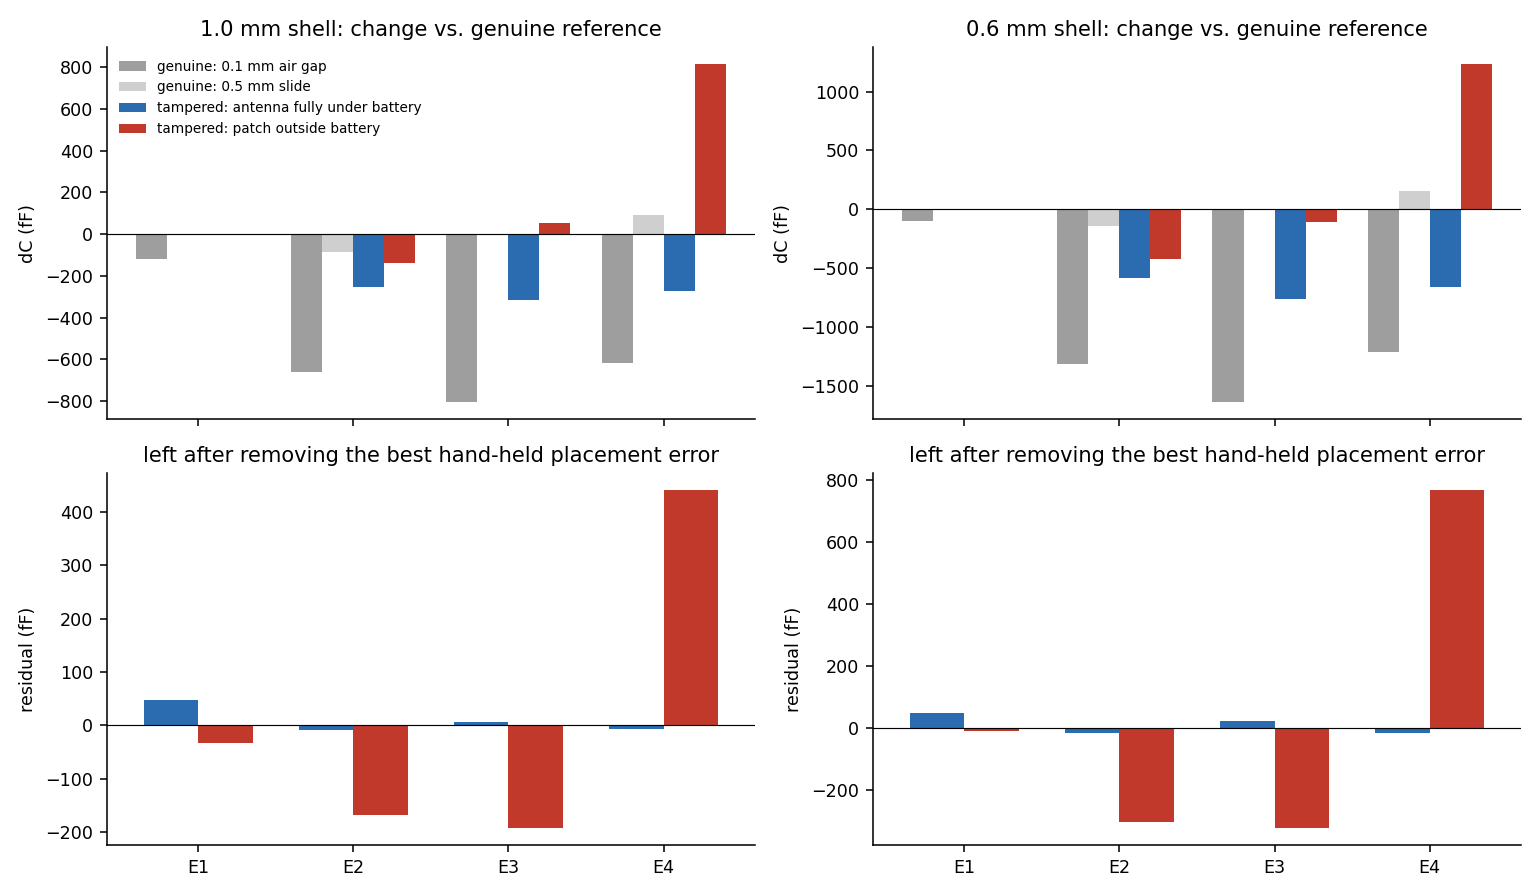
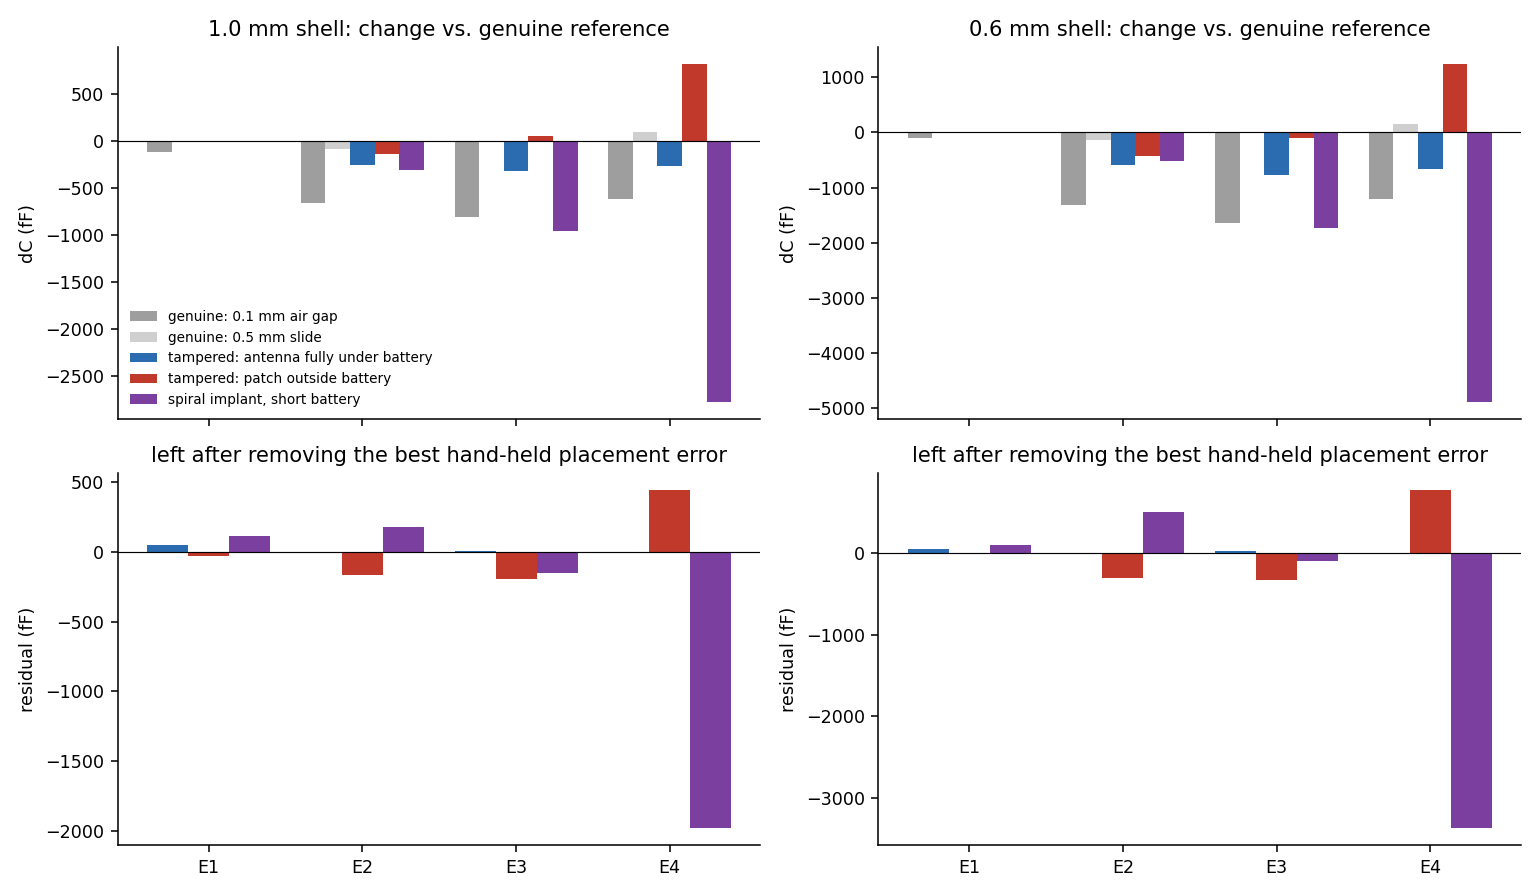
Capacitive array sees the spiral implant's shortened battery: 1.3-3.4 pF above placement error

diff --git a/sim/report.py b/sim/report.py
@@ -35,23 +35,30 @@ def placement_residual(v, B, ga, sb):
 
 def geometry_figure():
     import electrostatic as es
-    fig, axs = plt.subplots(1, 2, figsize=(11, 3.4))
-    for ax, batt in zip(axs, es.BATTERIES):
+    fig, axs = plt.subplots(1, 3, figsize=(15, 3.4))
+    for ax, batt in zip(axs, list(es.BATTERIES) + ['grand']):
         for e, (x, y) in es.ELECTRODES.items():
             ax.add_patch(Rectangle((x, y), es.EL_SIZE, es.EL_SIZE, fc='#d9a441', ec='#8a6418', alpha=0.35))
             ax.text(x + 7, y + 7, 'E%d' % e, ha='center', va='center', color='#6b4c10')
         d = es.DEV
         ax.add_patch(Rectangle((d[0], d[2]), d[1] - d[0], d[3] - d[2], fc='none', ec='0.3', lw=1.2, ls='--'))
-        b = es.BATTERIES[batt]
+        b = es.G_BATTERY if batt == 'grand' else es.BATTERIES[batt]
         ax.add_patch(Rectangle((b[0], b[2]), b[1] - b[0], b[3] - b[2], fc='#9aa7b8', ec='#4a5a70', alpha=0.55))
-        for p in (es.ANT_PATCH, es.ANT_ARM):
-            ax.add_patch(Rectangle((p[0], p[2]), p[1] - p[0], p[3] - p[2], fc='none', ec='#c0392b', lw=1.6))
+        if batt == 'grand':
+            g = es.G_BOARD
+            ax.add_patch(Rectangle((g[0], g[2]), g[1] - g[0], g[3] - g[2], fc='#7fb77e', ec='#3d7a3c', alpha=0.6))
+            g = es.G_SPIRAL
+            ax.add_patch(Rectangle((g[0], g[2]), g[1] - g[0], g[3] - g[2], fc='none', ec='#c0392b', lw=1.6))
+        else:
+            for p in (es.ANT_PATCH, es.ANT_ARM):
+                ax.add_patch(Rectangle((p[0], p[2]), p[1] - p[0], p[3] - p[2], fc='none', ec='#c0392b', lw=1.6))
         ax.set_xlim(8, 92)
         ax.set_ylim(-2, 42)
         ax.set_aspect('equal')
         ax.invert_yaxis()
         ax.set_title({'batt_covers_all': 'battery covers the whole antenna',
-                      'batt_35x15': '35 x 15 battery, feed patch sticks out'}[batt])
+                      'batt_35x15': '35 x 15 battery, feed patch sticks out',
+                      'grand': 'spiral implant: 26 mm battery, board (green), coil'}[batt])
         ax.set_xlabel('mm (detector board coordinates)')
     axs[0].plot([], [], color='#c0392b', label='antenna (est. from photos)')
     axs[0].add_patch(Rectangle((0, 0), 0, 0, fc='#9aa7b8', label='battery pouch'))
@@ -87,6 +94,17 @@ def electrostatic():
                     res = placement_residual(vv, B, ga, sb)
                     row['residual_' + name] = float(np.abs(res).max())
                 rows.append(row)
+        r = R.get('t%s_grand' % t)
+        if r:
+            G = np.array([r['genuine'][e] for e in ELS])
+            series.append(('spiral implant, short battery', np.array([r['grand'][e] for e in ELS]) - G, '#7b3fa0'))
+            for k in ('grand', 'grand_tied'):
+                vv = np.array([r[k][e] for e in ELS]) - G
+                row = {'shell': t, 'battery': '26 mm (spiral)', 'antenna': 'floating' if k == 'grand' else
+                       'board tied to wallet', 'dC': vv[:4].round(0).tolist()}
+                for name, (ga, sb) in TOL.items():
+                    row['residual_' + name] = float(np.abs(placement_residual(vv, B, ga, sb)).max())
+                rows.append(row)
         ax = axs[0, col]
         w = 0.8 / len(series)
         for i, (lab, v, c) in enumerate(series):
@@ -95,9 +113,11 @@ def electrostatic():
         ax.set_title('%s mm shell: change vs. genuine reference' % t)
         ax.set_ylabel('dC (fF)')
         ax = axs[1, col]
-        for i, (lab, v, c) in enumerate(series[2:]):
+        tam = series[2:]
+        w = 0.8 / len(tam)
+        for i, (lab, v, c) in enumerate(tam):
             res = placement_residual(v, B, *TOL['hand-held'])
-            ax.bar(np.arange(4) + (i - 0.5) * 0.35, res[:4], 0.35, label=lab, color=c)
+            ax.bar(np.arange(4) + (i - (len(tam) - 1) / 2) * w, res[:4], w, label=lab, color=c)
         ax.axhline(0, color='k', lw=0.6)
         ax.set_title('left after removing the best hand-held placement error')
         ax.set_ylabel('residual (fF)')

diff --git a/docs/simulation.md b/docs/simulation.md
@@ -21,7 +21,9 @@ metal here" would flag every genuine unit. The simulations compare
 ![modelled geometry](img/sim_geometry.png)
 
 Antenna and battery outlines are estimates (red / grey). Their relative
-position is the most important unknown; see the end of this document.
+position is the most important unknown; see the end of this document. The
+third panel is a second, different implant (a wire spiral and a shortened
+battery, see point 6 below).
 
 ## 1. Capacitive array (`sim/electrostatic.py`)
 
@@ -58,6 +60,10 @@ remainder is the part a placement error cannot explain.
 | 1.0 mm | feed patch outside the battery | tied to a large ground (upper bound) | 2108 fF | 1709 fF |
 | 0.6 mm | battery covers the whole antenna | floating | 47 fF | 47 fF |
 | 0.6 mm | feed patch outside the battery | floating | 921 fF | 767 fF |
+| 1.0 mm | spiral implant, 26 mm battery (see below) | floating | **2382 fF** | **1982 fF** |
+| 1.0 mm | spiral implant, 26 mm battery | board tied to the wallet's board | 1685 fF | 1285 fF |
+| 0.6 mm | spiral implant, 26 mm battery | floating | 4130 fF | 3370 fF |
+| 0.6 mm | spiral implant, 26 mm battery | board tied to the wallet's board | 3253 fF | 2493 fF |
 
 (Electrode capacitance is ~10 pF. The FDC2214 noise floor is 0.3 fF at
 100 S/s, so the instrument is never the limit: placement and unit-to-unit
@@ -91,6 +97,20 @@ variation are.)
    ground is ideal.
 5. A thinner back (Flex / Stax, 0.6 mm) roughly doubles every effect, both
    signal and placement sensitivity.
+
+6. **A second, quite different implant is caught by its shortened battery.**
+   Joe Grand's tampered Nano X ([slides](https://grandideastudio.com/media/ledger_hardware_implant_slides.pdf),
+   pp. 33-38) replaces the 44 mm battery with a 26 mm one and puts the implant
+   board and a hand-wound ~6 mm wire spiral antenna in the freed space. The
+   electrode over that space (E4) loses 2-5 pF, because the foil it saw in a
+   genuine unit is gone. No air gap or slide gives one electrode a drop that
+   large while its neighbours barely move. After the worst hand-held placement
+   error, 1.3-3.4 pF is left, far above anything else in the table. Whether
+   the implant's ground is tied to the wallet's board hardly matters. The
+   model's layout (third panel of the geometry figure) is estimated from the
+   photos, and at ~6 MHz the touching turns of the spiral act as one small
+   plate. The RF side of this variant is simulated in
+   [fixtures.md](fixtures.md#second-implant-variant-a-hand-wound-spiral).
 
 A working LTE antenna lying flat on a battery foil 0.15 mm away would barely
 radiate. So a real implant probably *needs* part of its antenna beyond the

diff --git a/docs/fixtures.md b/docs/fixtures.md
@@ -239,3 +239,17 @@ The modem is a 50 ohm resistor behind a 100 nH coil. The battery and board are
 perfect conductors. The real implant's ground connection is still unknown, and
 without the ground tie the 1.2 GHz notch would likely change or disappear.
 Treat the depths as an order of magnitude.
+
+## Second implant variant: a hand-wound spiral
+
+Joe Grand's tampered Nano X
+([slides](https://grandideastudio.com/media/ledger_hardware_implant_slides.pdf),
+pp. 33-38) uses a different antenna: ~8 cm of ~0.3 mm copper wire hand-wound
+into a ~6 mm pancake spiral of ~6 uneven, nearly touching turns. It lies half
+over the edge of the implant's own board and is fed directly by the modem.
+The Ledger's battery is replaced by a shorter one to make room. The
+capacitive array sees that shortened battery clearly (see
+[simulation.md](simulation.md), point 6).
+
+Results: *pending, the simulation batch is still running.*
+
